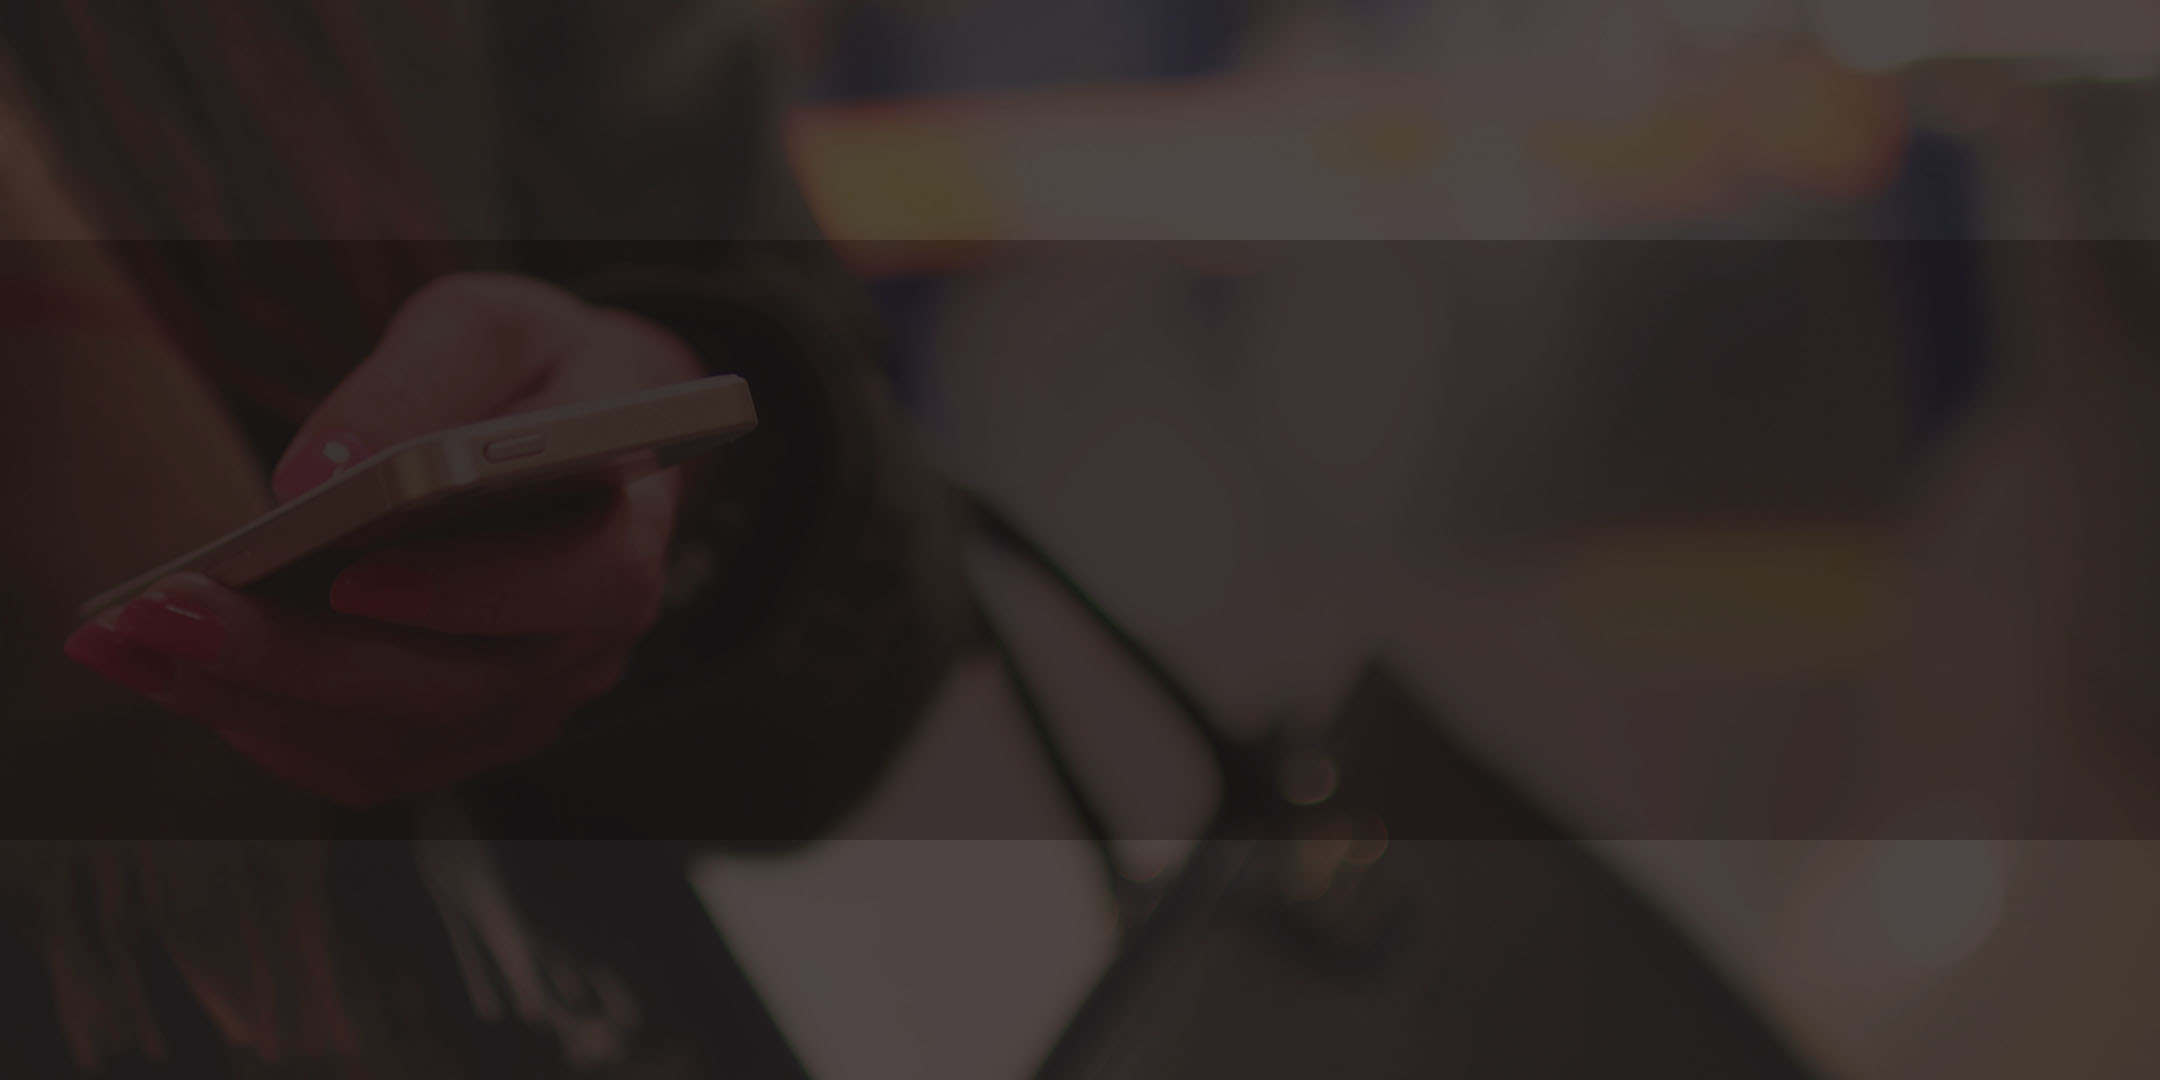
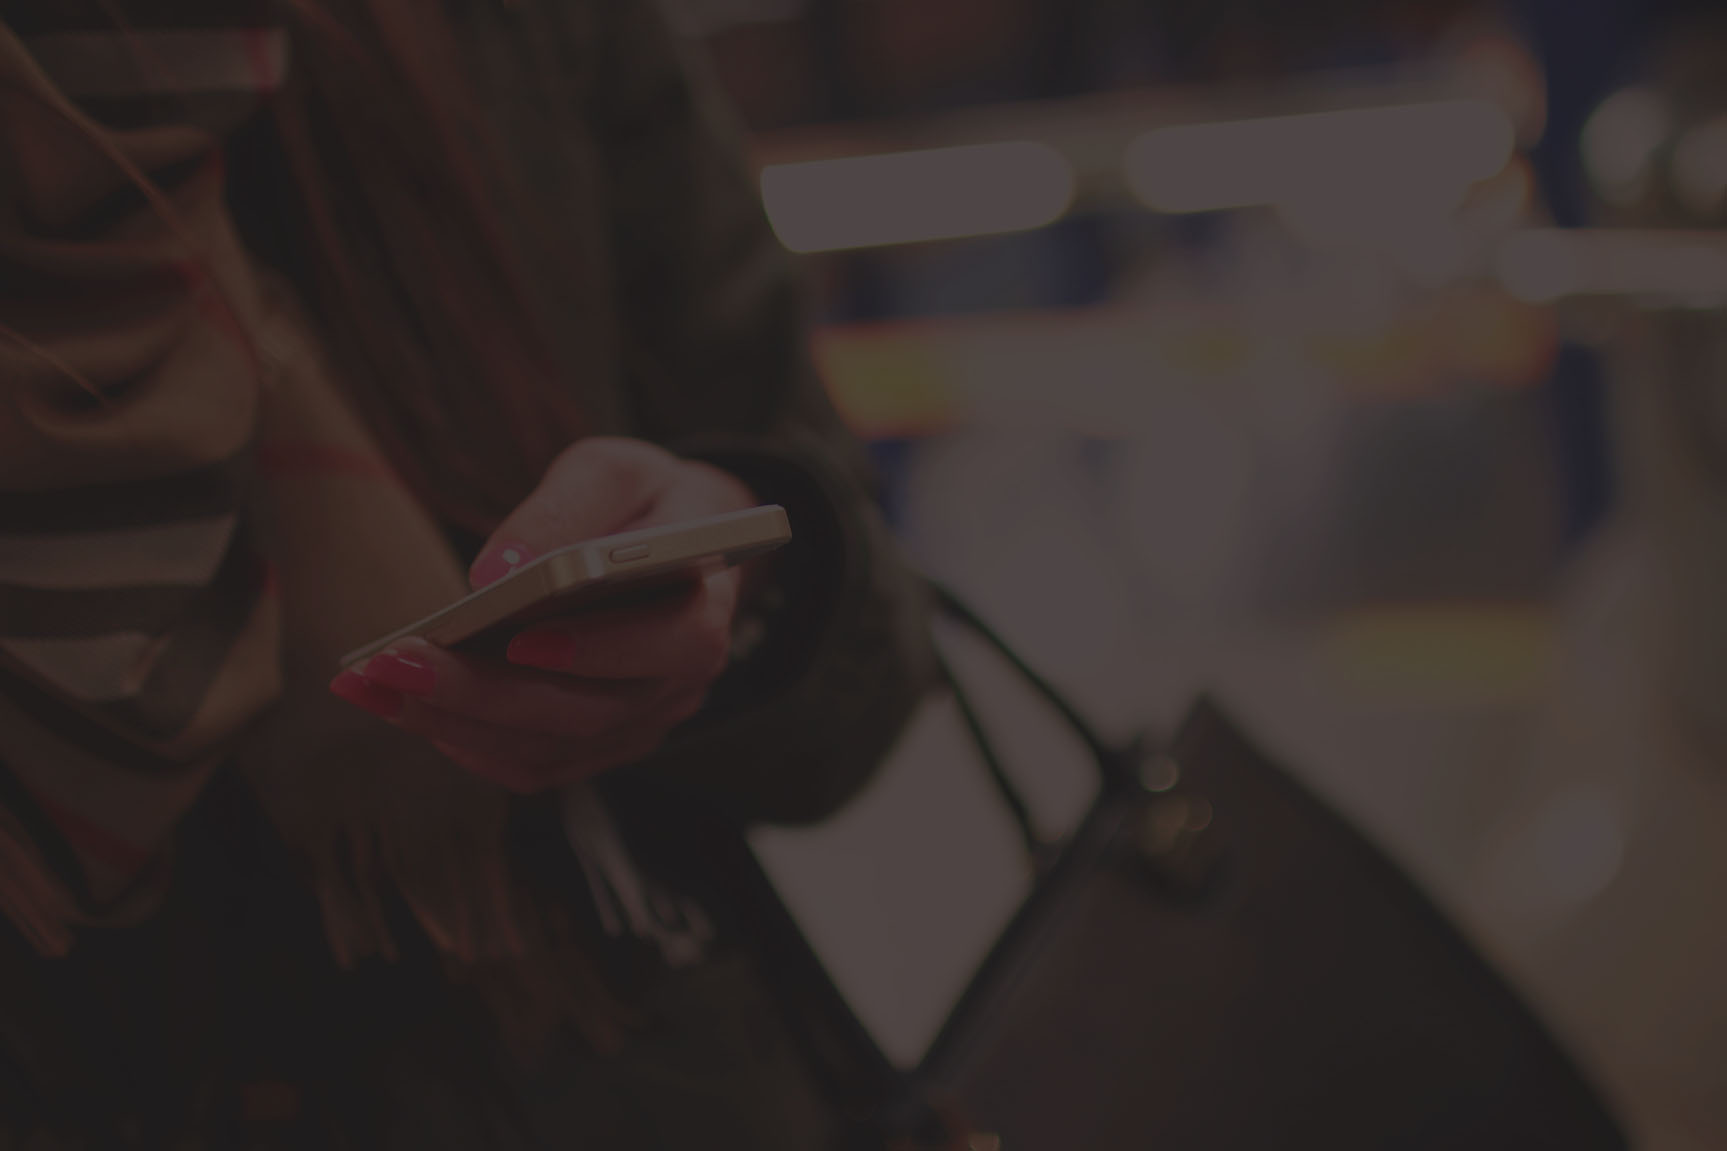
Change hero bg

diff --git a/protoapp.html b/protoapp.html
@@ -66,9 +66,11 @@ layout: protoapp
   <div id="fullpage">
     <div class="section">
       <div class="hero hero--protoapp">
-        <h1 class="hero__title">ProtoApp</h1>
-        <p class="hero__text">Descubra agora, como sua ideia é transformada em um protótipo navegável, testado e validado por usuários reais!</p>
-        <i class="hero__icon"></i>
+        <div class="hero__wrapper">
+          <h1 class="hero__title">ProtoApp</h1>
+          <p class="hero__text">Descubra agora, como sua ideia é transformada em um protótipo navegável, testado e validado por usuários reais!</p>
+          <i class="hero__icon"></i>
+        </div>
       </div>
     </div>
 

diff --git a/_sass/base/_hero.scss b/_sass/base/_hero.scss
@@ -1,6 +1,8 @@
 .hero {
+  align-items: center;
+  display: flex;
+  justify-content: center;
   min-height: 100vh;
-  padding: 280px 50px 0;
   position: relative;
   text-align: center;
 
@@ -9,8 +11,13 @@
     @include retina-image('../images/2016/background-protoapp', 1440px $height, 'jpg', null, '@2x');
     background-repeat: no-repeat;
     background-size: cover;
-    height: $height;
-    z-index: 20;
+  }
+
+  &__wrapper {
+    $bg: rgba(0, 0, 0, .2);
+    background: $bg;
+    flex: 1;
+    padding: 80px 0;
   }
 
   &__title {
